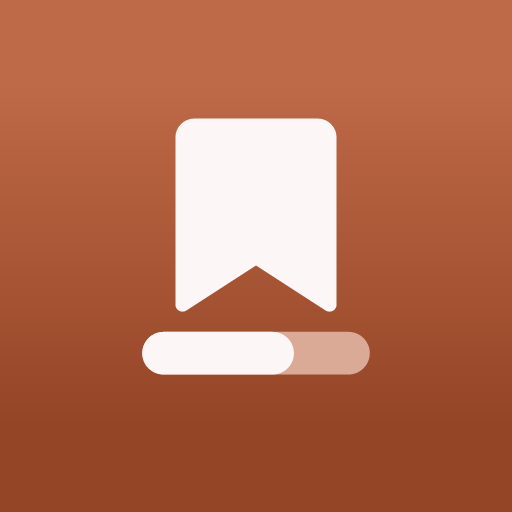
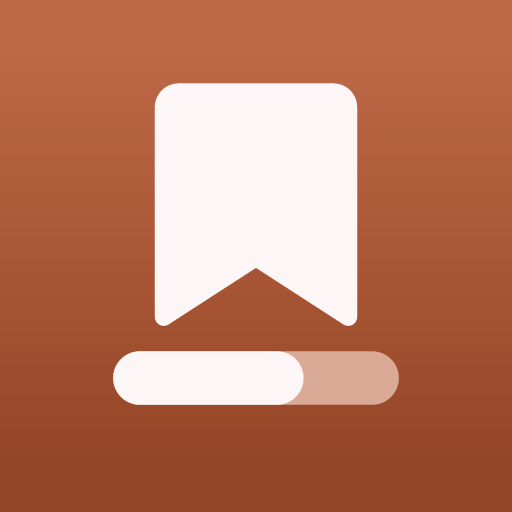
Brand assets: fixes from the platform spec check
- Google Play feature graphic (1024 x 500, 24-bit RGB with no alpha),
  required to publish the listing.
- Notification glyph reframed to Material's 20 dp live area with 2 dp
  padding, and emitted as a VectorDrawable (shelf_notification.xml).
- small-32.svg: the 32 px toolbar icon now keeps the master's 25% notch
  and 12.5% shelf, so it reads as the same bookmark as the 48 and 128.
  Firefox gets icon-16.svg and icon-32.svg in place of one icon.svg.
- Sizes up to 48 px render at 8x and box-average, so the notch
  rasterises symmetrically (worst mirrored pixel 95 -> 6 at 16 px).
- Maskable icon cropped to 86 units: the mark sits at 38% of the size
  (safe zone 40%) and matches the native launcher icon's size.
- Web manifest fixes id, start_url and scope at /.
- README: wiring notes for the splash width and expo-audio's hard-coded
  notification icon.

diff --git a/shared/brand/README.md b/shared/brand/README.md
@@ -2,7 +2,7 @@
 
 The app icon ("Bookmark on Terracotta", chosen by Richard on 2026-09-27): a cream, square-shouldered bookmark with a notched tail standing on a two-tone reading-progress bar, on the brand gradient #BE6947 → #944526. It ties the icon to the Saves tab's bookmark and to the app's reading-progress signature.
 
-- `src/` holds the only hand-edited files: the adaptive-icon foreground, background and monochrome layers on Android's 108 dp canvas, a pixel-tuned 32 × 32 `small.svg` for 16–32 px, and `full.svg` (foreground on background).
+- `src/` holds the only hand-edited files: the adaptive-icon foreground, background and monochrome layers on Android's 108 dp canvas, two pixel-tuned 32 × 32 drawings (`small.svg` for 16 px, with a deeper notch and thicker shelf so they survive; `small-32.svg` for 32 px, in the master's proportions), and `full.svg` (foreground on background).
 - `build-icons.cjs` derives every size and format into `out/`. Run it after any change to `src/`:
 
 ```
@@ -15,10 +15,21 @@ node shared/brand/build-icons.cjs
 | `out/android/icon.png` (1024) | Expo `icon` (legacy launcher) |
 | `out/android/adaptive-{foreground,background,monochrome}.png` (1024) | Expo `android.adaptiveIcon` foreground, background, monochrome (themed icons) |
 | `out/android/splash-icon.png` (1024) | Launch screen image, on the brand colour |
-| `out/android/notification-icon.png` (96, white on transparent) | Status-bar and media-notification small icon |
-| `out/android/play-store-icon.png` (512) | Google Play listing |
-| `out/extension/icon-{16,32,48,128}.png`, `icon.svg` | Manifest `icons` and `action.default_icon`; Firefox can use the SVG |
-| `out/web/favicon.svg`, `favicon.ico` (16/32/48), `apple-touch-icon.png`, `icon-192.png`, `icon-512.png`, `maskable-512.png`, `site.webmanifest` | Website |
-| `out/web/og-card.png` (1200 × 630) | Social sharing card. The wordmark is set in the system UI font until the name and typeface are final. |
+| `out/android/shelf_notification.xml` | Status-bar and media-notification small icon as a VectorDrawable (24 dp, white, 2 dp padding). See the wiring notes below. |
+| `out/android/notification-icon.png` (96) | The same glyph as a bitmap, for anything that needs a PNG |
+| `out/android/play-store-icon.png` (512) | Google Play listing icon (32-bit PNG) |
+| `out/android/play-feature-graphic.png` (1024 × 500) | Google Play feature graphic, required to publish the listing. 24-bit PNG with no alpha, as Play asks. |
+| `out/extension/icon-{16,32,48,128}.png` | Manifest `icons` and `action.default_icon` |
+| `out/extension/icon-16.svg`, `icon-32.svg` | Firefox manifest `icons` keys "16" and "32" (48 and 128 stay on the PNGs) |
+| `out/web/favicon.svg`, `favicon.ico` (16/32/48), `apple-touch-icon.png`, `icon-192.png`, `icon-512.png`, `maskable-512.png`, `site.webmanifest` | Website. `favicon.svg` is the 16 px drawing; the ICO carries both tunings. The manifest fixes `id`, `start_url` and `scope` at `/` so installs keep one identity. |
+| `out/web/og-card.png` (1200 × 630) | Social sharing card. The wordmark is set in the system UI font until the name and typeface are final (Segoe UI on Windows, Arial on macOS); regenerate this and the feature graphic then. |
+
+Sizes up to 48 px are rendered at 8× and box-averaged, so the symmetric notch rasterises symmetrically.
+
+## Wiring notes for the mobile build
+
+- **Splash:** set the expo-splash-screen plugin's `imageWidth` to about 200. The default of 100 dp shows the bookmark about 47 dp wide; up to about 210 dp keeps every part of the art inside Android 12's 192 dp circle.
+- **Media notification icon:** expo-audio 57 hard-codes its small icon to media3's `media3_icon_circular_play` and its plugin takes no icon option, so the status bar would show a generic play circle. Either add a small config plugin that writes `shelf_notification.xml` into `res/drawable*/media3_icon_circular_play.xml` (after prebuild, check which qualifier directories the media3-session AAR uses and match each one), or patch both `setSmallIcon` calls to resolve an app-owned `shelf_notification` drawable. An upstream icon option for the plugin would be the clean fix.
+- **app.json** in the paused spike still points at the Expo template icons, is named "mobile" and has no splash config. Point it at these outputs when the build resumes.
 
 The in-app interface icons are Lucide, plus the custom skip ±15 pair in `docs/design/icons/app/`.
